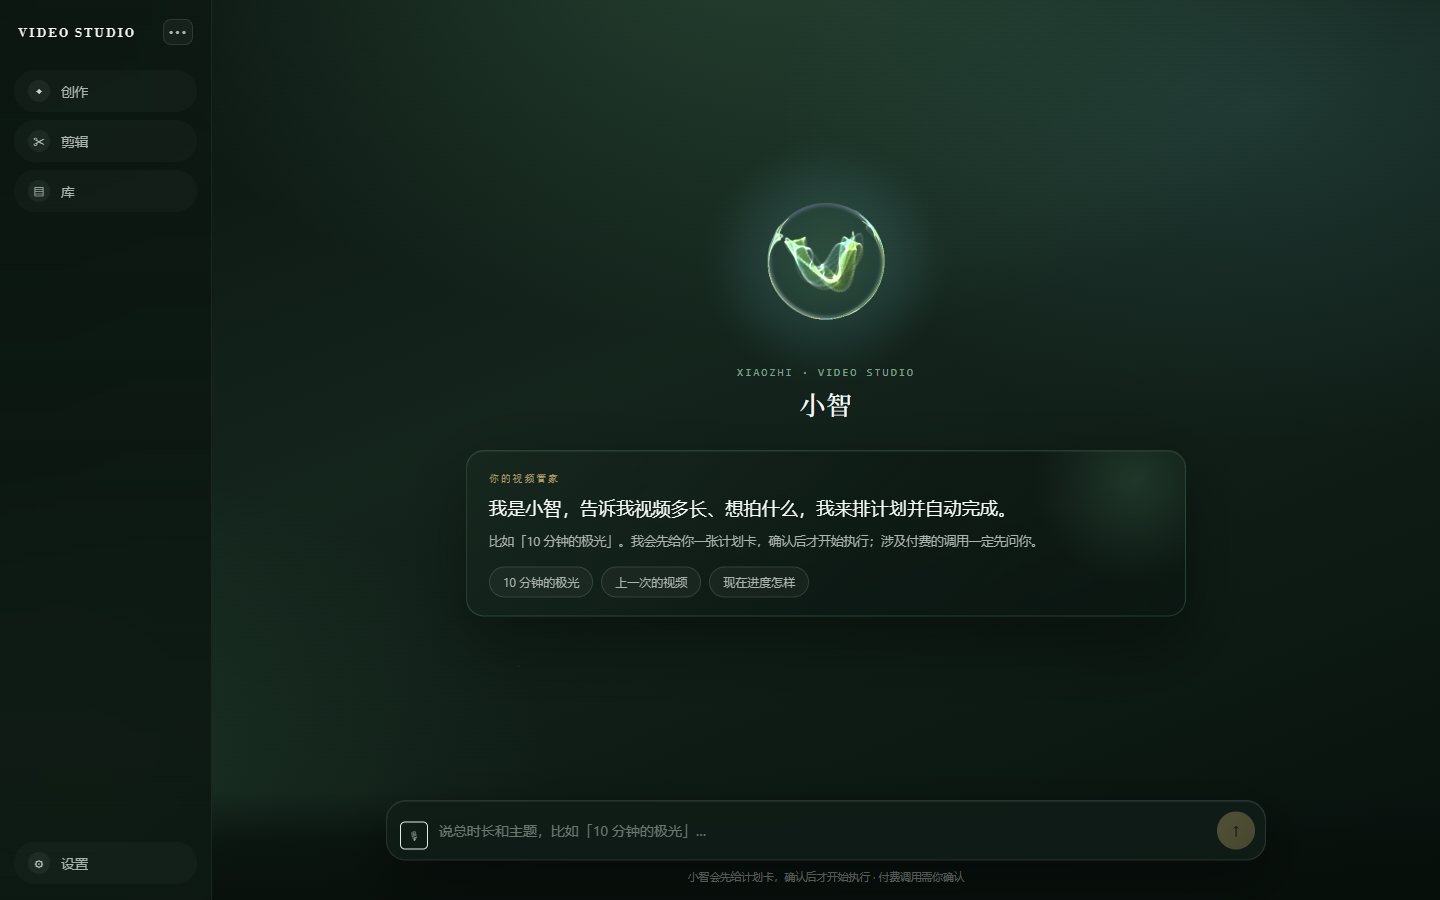
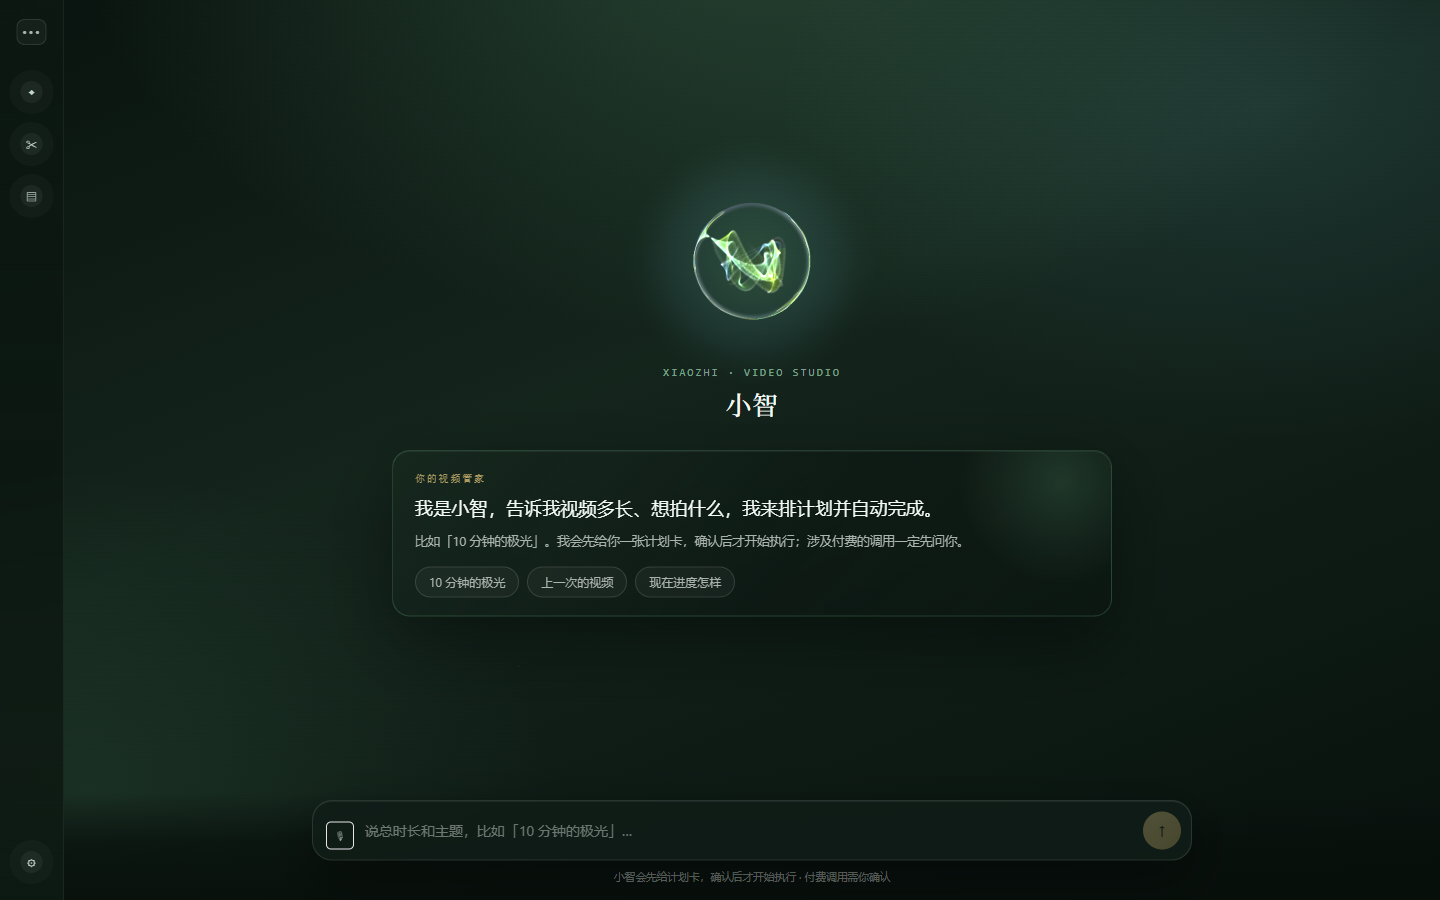
feat(web): 首页导航默认收起 + 板块页「小智」返回入口（用户 11:14 反馈）
- 首页左侧默认收起 64px 图标条（用户指定「第三张截图这个样子」）；点 ••• 展开 212px，选择记入 localStorage
- 板块页（/create /library /settings /gen /templates）左栏顶部新增「小智 · 对话首页 · 点这里回来」入口（绿球 + 文案，
  aria-label=回到小智首页，navigate('/')）；样式 .rail-home 在 assistant-home.css
- 剪辑台左上角 ← 改「返回小智」→ /；生成页「退出观看」→ /（「去创作」仍 /create）
- 同提交刷新验收截图：xz-01/02 默认收起态、xz-03 展开态（旧的 rail-collapsed 更名）、xz-04 计划卡、xz-05 向导、
  xz-06 库页「小智」退出入口
- 只改 web/；未新增依赖；未重启 3001

diff --git a/web/styles/assistant-home.css b/web/styles/assistant-home.css
@@ -166,6 +166,49 @@
 
 .xz-rail-foot { margin-top: auto; padding-top: 12px; }
 
+/* 板块页左栏「回小智」入口（2026-11-16：进入板块后要能退出对话页） */
+.rail-home {
+  display: flex;
+  align-items: center;
+  gap: 10px;
+  margin: 0 10px 14px;
+  padding: 9px 11px;
+  border-radius: 12px;
+  border: 1px solid rgba(52, 211, 153, .18);
+  background: rgba(52, 211, 153, .06);
+  color: var(--ink2);
+  text-align: left;
+  cursor: pointer;
+  transition: background .16s ease, border-color .16s ease, transform .16s ease;
+}
+.rail-home:hover {
+  color: #eafff5;
+  background: rgba(52, 211, 153, .13);
+  border-color: rgba(52, 211, 153, .36);
+  transform: translateY(-1px);
+}
+.rail-home-orb {
+  flex: 0 0 22px;
+  width: 22px;
+  height: 22px;
+  border-radius: 50%;
+  background: radial-gradient(circle at 34% 28%, #e7fbff 0%, #7fe6f6 22%, #1aa9cf 48%, #075a78 72%, #03202c 100%);
+  box-shadow: 0 0 12px rgba(52, 211, 153, .50), inset -3px -4px 6px rgba(0, 0, 0, .35);
+}
+.rail-home-title {
+  display: block;
+  font-size: 12.5px;
+  line-height: 1.3;
+  color: var(--ink);
+}
+.rail-home-sub {
+  display: block;
+  font-size: 10px;
+  line-height: 1.4;
+  color: var(--ink3);
+}
+.rail-home:hover .rail-home-title { color: #eafff5; }
+
 /* ===== 主区 ===== */
 .xz-main {
   position: relative;

diff --git a/web/src/screens/shell.js b/web/src/screens/shell.js
@@ -85,11 +85,26 @@ function Rail({ view }) {
   const routeOf = {
     create: '/create', edit: '/edit', library: '/library', music: '/music'
   };
+  // 2026-11-16 用户问「进入板块后怎么退出」：左栏顶部固定「小智 · 对话首页」入口，点击回 /。
   return html`
     <aside className="bg-s1 border-r border-white/[.08] flex flex-col py-4 min-h-0 overflow-auto">
       <div className="font-display text-[14px] uppercase tracking-[.13em] px-4 pb-3.5 text-ink select-none">
         Video Studio
       </div>
+
+      <button
+        type="button"
+        onClick=${() => navigate('/')}
+        title="回到小智首页"
+        aria-label="回到小智首页"
+        className="rail-home"
+      >
+        <span className="rail-home-orb" aria-hidden="true"></span>
+        <span className="min-w-0">
+          <span className="rail-home-title">小智</span>
+          <span className="rail-home-sub">对话首页 · 点这里回来</span>
+        </span>
+      </button>
 
       ${NAV.map((n, i) =>
         n.section

diff --git a/web/src/screens/assistantPage.js b/web/src/screens/assistantPage.js
@@ -45,7 +45,9 @@ function RailItem({ item, collapsed, foot = false }) {
 
 export function AssistantPage() {
   const [collapsed, setCollapsed] = useState(() => {
-    try { return localStorage.getItem(RAIL_KEY) === '1'; } catch (e) { return false; }
+    // 默认收起（用户 2026-11-16 指定：首页要第三张截图那样，只留图标气泡）；
+    // 点三个点展开后记住选择（vs_rail_collapsed=0）。
+    try { return localStorage.getItem(RAIL_KEY) !== '0'; } catch (e) { return true; }
   });
 
   useEffect(() => {

diff --git a/web/src/screens/gen.js b/web/src/screens/gen.js
@@ -79,7 +79,7 @@ export function GenView({ tasks }) {
         <span className="flex-1"></span>
         <${PauseButton} taskId=${task.taskId} status=${task.status} onChanged=${() => {}} />
         <button
-          onClick=${() => navigate('/create')}
+          onClick=${() => navigate('/')}
           className="h-8 px-3 rounded-[6px] border border-white/[.10] text-[12px] text-ink2 hover:bg-white/[.05]"
         >退出观看</button>
       </div>

diff --git a/web/src/screens/editor.js b/web/src/screens/editor.js
@@ -930,7 +930,7 @@ export function EditorView() {
   return html`
     <div className="ed-root">
       <header className="ed-top">
-        <button className="ed-back" onClick=${() => navigate('/create')} title="返回工作台">←</button>
+        <button className="ed-back" onClick=${() => navigate('/')} title="返回小智">←</button>
         <span className="ed-brand">剪辑台</span>
         <input
           className="ed-name"
